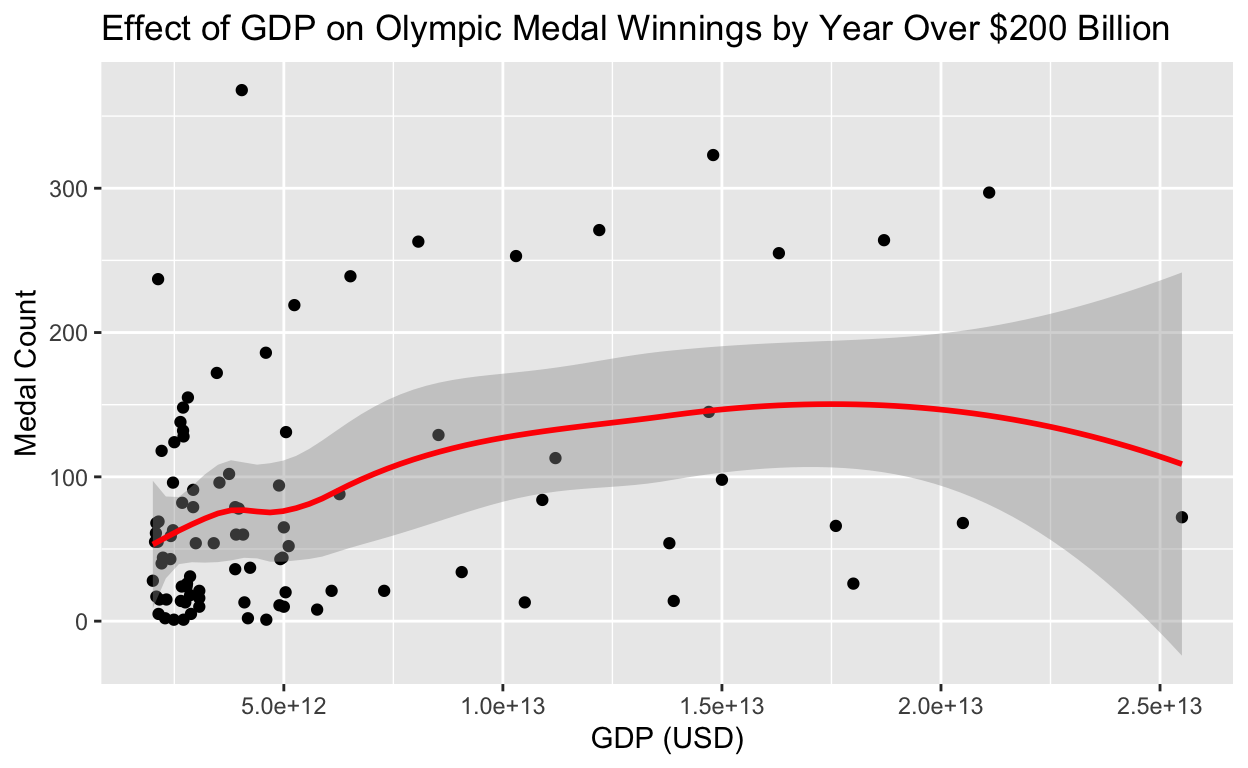
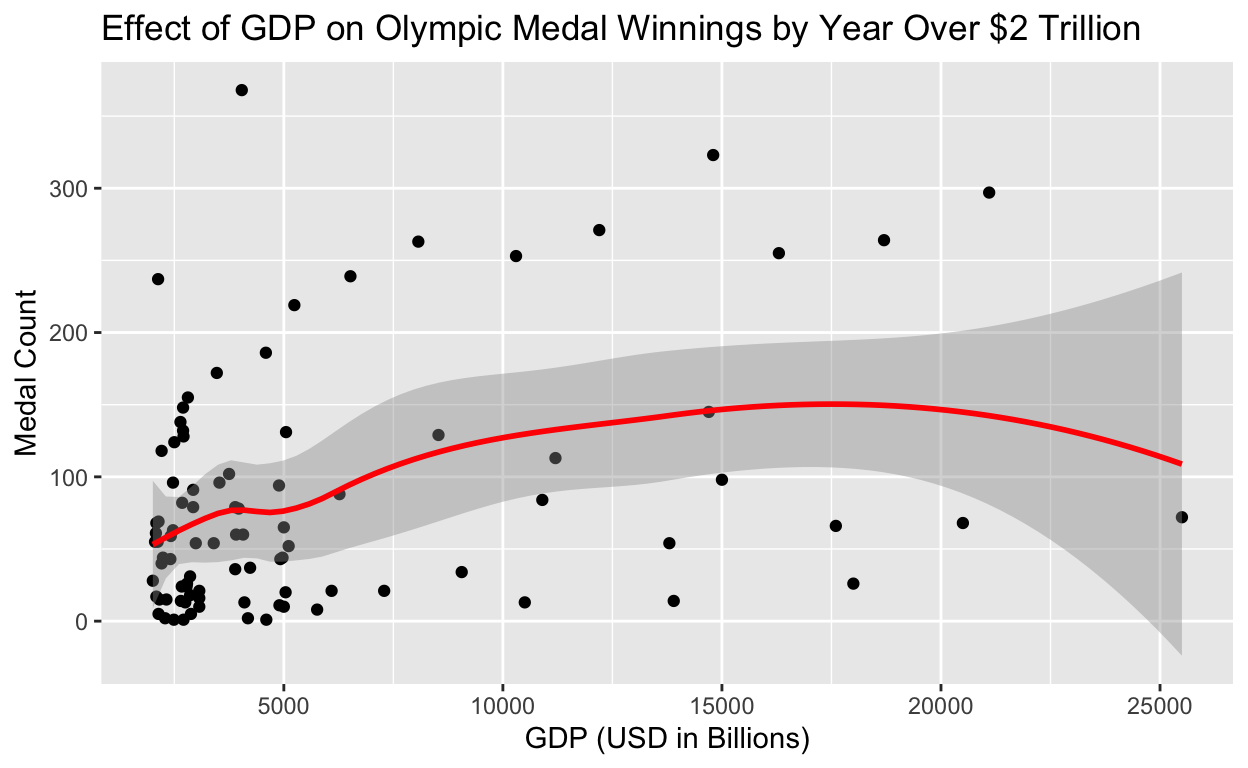
F1, F2, F2.5

diff --git a/index.html b/index.html
@@ -115,7 +115,7 @@ code span.wa { color: #5e5e5e; font-style: italic; } /* Warning */
   <!--/radix_placeholder_rmarkdown_metadata-->
   
   <script type="text/json" id="radix-resource-manifest">
-  {"type":"character","attributes":{},"value":["GDP.csv","index_files/anchor-4.2.2/anchor.min.js","index_files/bowser-1.9.3/bowser.min.js","index_files/distill-2.2.21/template.v2.js","index_files/figure-html5/unnamed-chunk-10-1.png","index_files/figure-html5/unnamed-chunk-11-1.png","index_files/figure-html5/unnamed-chunk-5-1.png","index_files/figure-html5/unnamed-chunk-9-1.png","index_files/header-attrs-2.17/header-attrs.js","index_files/header-attrs-2.28/header-attrs.js","index_files/header-attrs-2.29/header-attrs.js","index_files/jquery-3.6.0/jquery-3.6.0.js","index_files/jquery-3.6.0/jquery-3.6.0.min.js","index_files/jquery-3.6.0/jquery-3.6.0.min.map","index_files/popper-2.6.0/popper.min.js","index_files/tippy-6.2.7/tippy-bundle.umd.min.js","index_files/tippy-6.2.7/tippy-light-border.css","index_files/tippy-6.2.7/tippy.css","index_files/tippy-6.2.7/tippy.umd.min.js","index_files/webcomponents-2.0.0/webcomponents.js","Olympic_Athlete_Event_Results.csv","olympic_medal_database.csv"]}
+  {"type":"character","attributes":{},"value":["GDP.csv","index_files/anchor-4.2.2/anchor.min.js","index_files/bowser-1.9.3/bowser.min.js","index_files/distill-2.2.21/template.v2.js","index_files/figure-html5/unnamed-chunk-10-1.png","index_files/figure-html5/unnamed-chunk-11-1.png","index_files/figure-html5/unnamed-chunk-5-1.png","index_files/figure-html5/unnamed-chunk-8-1.png","index_files/figure-html5/unnamed-chunk-9-1.png","index_files/header-attrs-2.17/header-attrs.js","index_files/header-attrs-2.28/header-attrs.js","index_files/header-attrs-2.29/header-attrs.js","index_files/jquery-3.6.0/jquery-3.6.0.js","index_files/jquery-3.6.0/jquery-3.6.0.min.js","index_files/jquery-3.6.0/jquery-3.6.0.min.map","index_files/popper-2.6.0/popper.min.js","index_files/tippy-6.2.7/tippy-bundle.umd.min.js","index_files/tippy-6.2.7/tippy-light-border.css","index_files/tippy-6.2.7/tippy.css","index_files/tippy-6.2.7/tippy.umd.min.js","index_files/webcomponents-2.0.0/webcomponents.js","Olympic_Athlete_Event_Results.csv","olympic_medal_database.csv"]}
   </script>
   <!--radix_placeholder_navigation_in_header-->
   <!--/radix_placeholder_navigation_in_header-->
@@ -1543,11 +1543,9 @@ code span.wa { color: #5e5e5e; font-style: italic; } /* Warning */
 </div>
 
 <div class="d-article">
-<h2 id="milestone-1">Milestone 1</h2>
-<p>I am interested in exploring data related to the olympics (because that’s topical right now) or something football/basketball related</p>
-<h2 id="milestone-2">Milestone 2</h2>
-<p>My research question is the following: How do the gdp of a country impact the number of olympic medals won by a country throughout the history of the modern Summer and Winter Olympics (1896-2022)? I hypothesize that countries with higher GDPs have a higher likelihood of winning medals. I believe this because countries with stronger economies are able to better train their athletes and have more sports competition, leading to more medals being won. I will use the already created dataset of medals won to gather the list for every olympic year (it is measured by count of each type of medal). A positive correlation between GDP with medals won would indicate support for my hypothesis as the GDP should increase as medals are won. A relationship opposite or showing no correlation to those stated above would disprove my hypothesis as it would mean that GDP either has an opposite effect or no effect on medals won.</p>
-<h2 id="milestone-3">Milestone 3</h2>
+<h2 id="introduction">Introduction</h2>
+<p>My research question is the following: How does the GDP of a country impact the number of olympic medals won by a country throughout the history of the modern Summer and Winter Olympics (1960-2022)? I hypothesize that countries with higher GDPs have a higher likelihood of winning medals. I believe this because countries with stronger economies are able to better train their athletes and have more sports competition, leading to more medals being won. I will use the already created dataset of medals won to gather the list for every olympic year (it is measured by count of each type of medal). A positive correlation between GDP with medals won would indicate support for my hypothesis as the GDP should increase as medals are won. A relationship opposite or showing no correlation to those stated above would disprove my hypothesis as it would mean that GDP either has an opposite effect or no effect on medals won. This is important research as it would explain olympic medal winning trends that do not explicitly have to do with athletic ability but more about the country’s infrastructure and the opportunities of the athletes outside of pure competition.</p>
+<h2 id="data-wrangling">Data Wrangling</h2>
 <p>First I will load the unclean olympic results dataset.</p>
 <div class="layout-chunk" data-layout="l-body">
 <div class="sourceCode">
@@ -1567,12 +1565,9 @@ code span.wa { color: #5e5e5e; font-style: italic; } /* Warning */
 <div class="sourceCode">
 <pre class="sourceCode r"><code class="sourceCode r"><span><span class='va'>extra_count</span> <span class='op'>&lt;-</span> <span class='va'>medals</span> <span class='op'>|&gt;</span></span>
 <span>  <span class='fu'><a href='https://dplyr.tidyverse.org/reference/group_by.html'>group_by</a></span><span class='op'>(</span><span class='va'>result_id</span>, <span class='va'>medal</span><span class='op'>)</span> <span class='op'>|&gt;</span></span>
-<span>  <span class='fu'><a href='https://dplyr.tidyverse.org/reference/summarise.html'>summarize</a></span><span class='op'>(</span>extra_count <span class='op'>=</span> <span class='fu'><a href='https://dplyr.tidyverse.org/reference/context.html'>n</a></span><span class='op'>(</span><span class='op'>)</span><span class='op'>)</span></span></code></pre>
-</div>
-</div>
-<div class="layout-chunk" data-layout="l-body">
-<div class="sourceCode">
-<pre class="sourceCode r"><code class="sourceCode r"><span><span class='va'>medals</span> <span class='op'>&lt;-</span> <span class='va'>medals</span> <span class='op'>|&gt;</span></span>
+<span>  <span class='fu'><a href='https://dplyr.tidyverse.org/reference/summarise.html'>summarize</a></span><span class='op'>(</span>extra_count <span class='op'>=</span> <span class='fu'><a href='https://dplyr.tidyverse.org/reference/context.html'>n</a></span><span class='op'>(</span><span class='op'>)</span><span class='op'>)</span></span>
+<span></span>
+<span><span class='va'>medals</span> <span class='op'>&lt;-</span> <span class='va'>medals</span> <span class='op'>|&gt;</span></span>
 <span>  <span class='fu'><a href='https://dplyr.tidyverse.org/reference/mutate-joins.html'>left_join</a></span><span class='op'>(</span><span class='va'>extra_count</span><span class='op'>)</span></span>
 <span></span>
 <span><span class='va'>extra_indiv_rows</span> <span class='op'>&lt;-</span> <span class='va'>medals</span> <span class='op'>|&gt;</span></span>
@@ -1593,32 +1588,17 @@ code span.wa { color: #5e5e5e; font-style: italic; } /* Warning */
 <span>   <span class='fu'><a href='https://dplyr.tidyverse.org/reference/arrange.html'>arrange</a></span><span class='op'>(</span><span class='va'>edition_id</span>, <span class='va'>sport</span>, <span class='va'>country_noc</span><span class='op'>)</span></span></code></pre>
 </div>
 </div>
-<p>For this milestone, I will show the top 10 medal winning countries medals sorted by Summer and Winter Olympics. The top ten countries are the United States (USA), the Soviet Union (URS), Great Britain (GBR), France (FRA), China (CHN), Germany (GER), Italy (ITA), Australia (AUS), Japan (JPN), Hungary (HUN). First I will add an indicator to separate Summer and Winter Games. Then I will filter to only the top 10 countries and create a visualization of their success in the Summer and Winter games.</p>
+<p>Now I will add an indicator to separate Summer and Winter Games.</p>
 <div class="layout-chunk" data-layout="l-body">
 <div class="sourceCode">
 <pre class="sourceCode r"><code class="sourceCode r"><span><span class='va'>medals_clean</span> <span class='op'>&lt;-</span> <span class='va'>medals_clean</span> <span class='op'>|&gt;</span></span>
 <span>  <span class='fu'><a href='https://dplyr.tidyverse.org/reference/mutate.html'>mutate</a></span><span class='op'>(</span>Season <span class='op'>=</span> <span class='fu'><a href='https://dplyr.tidyverse.org/reference/case_when.html'>case_when</a></span><span class='op'>(</span></span>
 <span>    <span class='va'>edition_id</span> <span class='op'>&lt;</span> <span class='fl'>27</span> <span class='op'>|</span> <span class='va'>edition_id</span> <span class='op'>==</span> <span class='fl'>53</span> <span class='op'>|</span> <span class='va'>edition_id</span> <span class='op'>==</span> <span class='fl'>54</span> <span class='op'>|</span> <span class='va'>edition_id</span> <span class='op'>==</span> <span class='fl'>59</span> <span class='op'>|</span> <span class='va'>edition_id</span> <span class='op'>==</span> <span class='fl'>61</span> <span class='op'>~</span> <span class='st'>"Summer"</span>,</span>
 <span>    <span class='va'>edition_id</span> <span class='op'>&gt;=</span> <span class='fl'>27</span> <span class='op'>&amp;</span> <span class='va'>edition_id</span> <span class='op'>&lt;</span> <span class='fl'>51</span> <span class='op'>|</span> <span class='va'>edition_id</span> <span class='op'>==</span> <span class='fl'>57</span> <span class='op'>|</span> <span class='va'>edition_id</span> <span class='op'>==</span> <span class='fl'>58</span> <span class='op'>|</span> <span class='va'>edition_id</span> <span class='op'>==</span> <span class='fl'>60</span> <span class='op'>|</span> <span class='va'>edition_id</span> <span class='op'>==</span> <span class='fl'>62</span> <span class='op'>~</span> <span class='st'>"Winter"</span></span>
-<span>  <span class='op'>)</span><span class='op'>)</span> </span>
-<span></span>
-<span><span class='va'>medals_clean</span> <span class='op'>|&gt;</span></span>
-<span>  <span class='fu'><a href='https://dplyr.tidyverse.org/reference/filter.html'>filter</a></span><span class='op'>(</span><span class='va'>country_noc</span> <span class='op'>==</span> <span class='st'>"USA"</span> <span class='op'>|</span> <span class='va'>country_noc</span> <span class='op'>==</span> <span class='st'>"URS"</span> <span class='op'>|</span> <span class='va'>country_noc</span> <span class='op'>==</span> <span class='st'>"GBR"</span><span class='op'>|</span> <span class='va'>country_noc</span> <span class='op'>==</span> <span class='st'>"FRA"</span> <span class='op'>|</span> <span class='va'>country_noc</span> <span class='op'>==</span> <span class='st'>"CHN"</span> </span>
-<span>         <span class='op'>|</span> <span class='va'>country_noc</span> <span class='op'>==</span> <span class='st'>"GER"</span> <span class='op'>|</span> <span class='va'>country_noc</span> <span class='op'>==</span> <span class='st'>"ITA"</span> <span class='op'>|</span> <span class='va'>country_noc</span> <span class='op'>==</span> <span class='st'>"AUS"</span> <span class='op'>|</span> <span class='va'>country_noc</span> <span class='op'>==</span> <span class='st'>"JPN"</span> <span class='op'>|</span> <span class='va'>country_noc</span> <span class='op'>==</span> <span class='st'>"HUN"</span><span class='op'>)</span> <span class='op'>|&gt;</span></span>
-<span>  <span class='fu'><a href='https://dplyr.tidyverse.org/reference/group_by.html'>group_by</a></span><span class='op'>(</span><span class='va'>country_noc</span>, <span class='va'>Season</span><span class='op'>)</span> <span class='op'>|&gt;</span></span>
-<span>  <span class='fu'><a href='https://dplyr.tidyverse.org/reference/summarise.html'>summarize</a></span><span class='op'>(</span>medal_count <span class='op'>=</span> <span class='fu'><a href='https://dplyr.tidyverse.org/reference/context.html'>n</a></span><span class='op'>(</span><span class='op'>)</span><span class='op'>)</span> <span class='op'>|&gt;</span></span>
-<span>   <span class='fu'><a href='https://ggplot2.tidyverse.org/reference/ggplot.html'>ggplot</a></span><span class='op'>(</span>mapping <span class='op'>=</span> <span class='fu'><a href='https://ggplot2.tidyverse.org/reference/aes.html'>aes</a></span><span class='op'>(</span>x <span class='op'>=</span> <span class='va'>country_noc</span>, y <span class='op'>=</span> <span class='va'>medal_count</span><span class='op'>)</span><span class='op'>)</span> <span class='op'>+</span></span>
-<span>  <span class='fu'><a href='https://ggplot2.tidyverse.org/reference/geom_bar.html'>geom_col</a></span><span class='op'>(</span><span class='fu'><a href='https://ggplot2.tidyverse.org/reference/aes.html'>aes</a></span><span class='op'>(</span>fill <span class='op'>=</span> <span class='va'>Season</span><span class='op'>)</span>, position <span class='op'>=</span> <span class='st'>"dodge"</span><span class='op'>)</span> <span class='op'>+</span></span>
-<span>  <span class='fu'><a href='https://ggplot2.tidyverse.org/reference/scale_manual.html'>scale_fill_manual</a></span><span class='op'>(</span>values <span class='op'>=</span> <span class='fu'><a href='https://rdrr.io/r/base/c.html'>c</a></span><span class='op'>(</span>Summer <span class='op'>=</span> <span class='st'>"gold"</span>,</span>
-<span>                               Winter <span class='op'>=</span> <span class='st'>"steelblue1"</span><span class='op'>)</span><span class='op'>)</span> <span class='op'>+</span></span>
-<span>  <span class='fu'><a href='https://ggplot2.tidyverse.org/reference/labs.html'>labs</a></span><span class='op'>(</span>x <span class='op'>=</span> <span class='st'>"Country"</span>,</span>
-<span>       y <span class='op'>=</span> <span class='st'>"Medal Count"</span>,</span>
-<span>       title <span class='op'>=</span> <span class='st'>"Medals by Olympic Season for the Top 10 Medal Winning Countries"</span><span class='op'>)</span></span></code></pre>
+<span>  <span class='op'>)</span><span class='op'>)</span> </span></code></pre>
 </div>
-<p><img src="index_files/figure-html5/unnamed-chunk-5-1.png" width="624" /></p>
 </div>
-<h2 id="milestone-4">Milestone 4</h2>
-First I will load the gdp by country dataset. This data set is only from 1960-2022 so we will only be looking at those olympics.
+<p>Now I will load the gdp by country dataset. This data set is only from 1960-2022 so we will only be looking at those olympics.</p>
 <div class="layout-chunk" data-layout="l-body">
 <div class="sourceCode">
 <pre class="sourceCode r"><code class="sourceCode r"><span><span class='va'>gdp</span> <span class='op'>&lt;-</span> <span class='fu'><a href='https://readr.tidyverse.org/reference/read_delim.html'>read_csv</a></span><span class='op'>(</span><span class='st'>"GDP.csv"</span><span class='op'>)</span></span></code></pre>
@@ -1644,57 +1624,195 @@ First I will load the gdp by country dataset. This data set is only from 1960-20
 <span><span class='va'>medals_gdp</span> <span class='op'>&lt;-</span> <span class='fu'><a href='https://dplyr.tidyverse.org/reference/mutate-joins.html'>inner_join</a></span><span class='op'>(</span><span class='va'>medals_count</span>, <span class='va'>gdp_pivot</span><span class='op'>)</span></span></code></pre>
 </div>
 </div>
-Now I will graph the medals won by GDP.
-<div class="layout-chunk" data-layout="l-body">
-<div class="sourceCode">
-<pre class="sourceCode r"><code class="sourceCode r"><span><span class='va'>medals_gdp</span> <span class='op'>|&gt;</span></span>
-<span>  <span class='fu'><a href='https://ggplot2.tidyverse.org/reference/ggplot.html'>ggplot</a></span><span class='op'>(</span>mapping <span class='op'>=</span> <span class='fu'><a href='https://ggplot2.tidyverse.org/reference/aes.html'>aes</a></span><span class='op'>(</span>x <span class='op'>=</span> <span class='va'>gdp</span>, y <span class='op'>=</span> <span class='va'>n</span><span class='op'>)</span><span class='op'>)</span> <span class='op'>+</span></span>
-<span>  <span class='fu'><a href='https://ggplot2.tidyverse.org/reference/geom_point.html'>geom_point</a></span><span class='op'>(</span><span class='op'>)</span> <span class='op'>+</span></span>
-<span>  <span class='fu'><a href='https://ggplot2.tidyverse.org/reference/geom_smooth.html'>geom_smooth</a></span><span class='op'>(</span><span class='op'>)</span> <span class='op'>+</span></span>
-<span><span class='fu'><a href='https://ggplot2.tidyverse.org/reference/labs.html'>labs</a></span><span class='op'>(</span>x <span class='op'>=</span> <span class='st'>"GDP"</span>,</span>
-<span>     y <span class='op'>=</span> <span class='st'>"Medal Count"</span>,</span>
-<span>     title <span class='op'>=</span> <span class='st'>"Effect of GDP on Olympic Medal Winnings by Year"</span><span class='op'>)</span></span></code></pre>
-</div>
-<p><img src="index_files/figure-html5/unnamed-chunk-9-1.png" width="624" /></p>
-</div>
-<p>Each point on this graph is one country’s GDP in an olympic year. From this graph, we can see as GDP increases from 0 to 1 trillion (1e+13), the medals won by country increases. However, after a country has a GDP of 1 trillion, the line flattens indicating that the effect of GDP increase does not perpetually increase medal winning. There are, however, many confounding variables. One important one is that as a country’s GDP increases, they usually send more athletes to the olympics, leading to more chances to win a medal, and more medals in result. Additionally, this graph has a few outlier dots which are mostly the United States and China (the two largest economies). However, by removing these two countries, the line of best fit does not change very much, indicating a minimal outlier effect from those two countries.</p>
-<h1 id="final-project">Final Project</h1>
-<h2 id="introduction">Introduction</h2>
-<p>My research question is the following: How does the GDP of a country impact the number of olympic medals won by a country throughout the history of the modern Summer and Winter Olympics (1960-2022)? I hypothesize that countries with higher GDPs have a higher likelihood of winning medals. I believe this because countries with stronger economies are able to better train their athletes and have more sports competition, leading to more medals being won. I will use the already created dataset of medals won to gather the list for every olympic year (it is measured by count of each type of medal). A positive correlation between GDP with medals won would indicate support for my hypothesis as the GDP should increase as medals are won. A relationship opposite or showing no correlation to those stated above would disprove my hypothesis as it would mean that GDP either has an opposite effect or no effect on medals won. This is important research as it would explain olympic medal winning trends that do not explicitly have to do with athletic ability but more about the country’s infrastructure and the opportunities of the athletes outside of pure competition.</p>
 <h2 id="data-section">Data Section</h2>
 <div class="layout-chunk" data-layout="l-body">
 <div class="sourceCode">
 <pre class="sourceCode r"><code class="sourceCode r"><span><span class='va'>u_200_gdp</span> <span class='op'>&lt;-</span> <span class='va'>medals_gdp</span> <span class='op'>|&gt;</span></span>
 <span>  <span class='fu'><a href='https://dplyr.tidyverse.org/reference/filter.html'>filter</a></span><span class='op'>(</span><span class='va'>gdp</span> <span class='op'>&lt;=</span> <span class='fl'>2e+12</span><span class='op'>)</span> <span class='op'>|&gt;</span></span>
-<span>  <span class='fu'><a href='https://ggplot2.tidyverse.org/reference/ggplot.html'>ggplot</a></span><span class='op'>(</span>mapping <span class='op'>=</span> <span class='fu'><a href='https://ggplot2.tidyverse.org/reference/aes.html'>aes</a></span><span class='op'>(</span>x <span class='op'>=</span> <span class='va'>gdp</span>, y <span class='op'>=</span> <span class='va'>n</span><span class='op'>)</span><span class='op'>)</span> <span class='op'>+</span></span>
+<span>  <span class='fu'><a href='https://dplyr.tidyverse.org/reference/mutate.html'>mutate</a></span><span class='op'>(</span>gdp_simp <span class='op'>=</span> <span class='va'>gdp</span><span class='op'>/</span><span class='fl'>1000000000</span><span class='op'>)</span></span>
+<span></span>
+<span><span class='va'>u_plot</span> <span class='op'>&lt;-</span> <span class='va'>u_200_gdp</span> <span class='op'>|&gt;</span></span>
+<span>  <span class='fu'><a href='https://ggplot2.tidyverse.org/reference/ggplot.html'>ggplot</a></span><span class='op'>(</span>mapping <span class='op'>=</span> <span class='fu'><a href='https://ggplot2.tidyverse.org/reference/aes.html'>aes</a></span><span class='op'>(</span>x <span class='op'>=</span> <span class='va'>gdp_simp</span>, y <span class='op'>=</span> <span class='va'>n</span><span class='op'>)</span><span class='op'>)</span> <span class='op'>+</span></span>
 <span>  <span class='fu'><a href='https://ggplot2.tidyverse.org/reference/geom_point.html'>geom_point</a></span><span class='op'>(</span><span class='op'>)</span> <span class='op'>+</span></span>
 <span>  <span class='fu'><a href='https://ggplot2.tidyverse.org/reference/geom_smooth.html'>geom_smooth</a></span><span class='op'>(</span><span class='op'>)</span> <span class='op'>+</span></span>
-<span><span class='fu'><a href='https://ggplot2.tidyverse.org/reference/labs.html'>labs</a></span><span class='op'>(</span>x <span class='op'>=</span> <span class='st'>"GDP (USD)"</span>,</span>
+<span><span class='fu'><a href='https://ggplot2.tidyverse.org/reference/labs.html'>labs</a></span><span class='op'>(</span>x <span class='op'>=</span> <span class='st'>"GDP (USD in Billions)"</span>,</span>
 <span>     y <span class='op'>=</span> <span class='st'>"Medal Count"</span>,</span>
-<span>     title <span class='op'>=</span> <span class='st'>"Effect of GDP on Olympic Medal Winnings by Year Under $200 Billion"</span><span class='op'>)</span></span>
+<span>     title <span class='op'>=</span> <span class='st'>"Effect of GDP on Olympic Medal Winnings by Year Under $2 Trillion"</span><span class='op'>)</span></span>
 <span></span>
-<span><span class='va'>u_200_gdp</span></span></code></pre>
+<span><span class='va'>u_plot</span></span></code></pre>
 </div>
-<p><img src="index_files/figure-html5/unnamed-chunk-10-1.png" width="624" /></p>
+<p><img src="index_files/figure-html5/unnamed-chunk-8-1.png" width="624" /></p>
 </div>
-<p>This graph shows the amount of medal won by a country in each olympics (each point is one country at an olympics (example is Afghanistan 1960 is one point, Afghanistan 1964 is another point)) for countries under $200 billion in GDP. We can see a mostly positive association between medal winning and GDP increase up to a threshold of $200 billion. The blue line shows a line of best fit for this graph which has a slope of approximately $30 billion in GDP per medal won. The gray outline is the standard error.</p>
 <div class="layout-chunk" data-layout="l-body">
 <div class="sourceCode">
 <pre class="sourceCode r"><code class="sourceCode r"><span><span class='va'>o_200_gdp</span> <span class='op'>&lt;-</span> <span class='va'>medals_gdp</span> <span class='op'>|&gt;</span></span>
 <span>  <span class='fu'><a href='https://dplyr.tidyverse.org/reference/filter.html'>filter</a></span><span class='op'>(</span><span class='va'>gdp</span> <span class='op'>&gt;=</span> <span class='fl'>2e+12</span><span class='op'>)</span> <span class='op'>|&gt;</span></span>
-<span>  <span class='fu'><a href='https://ggplot2.tidyverse.org/reference/ggplot.html'>ggplot</a></span><span class='op'>(</span>mapping <span class='op'>=</span> <span class='fu'><a href='https://ggplot2.tidyverse.org/reference/aes.html'>aes</a></span><span class='op'>(</span>x <span class='op'>=</span> <span class='va'>gdp</span>, y <span class='op'>=</span> <span class='va'>n</span><span class='op'>)</span><span class='op'>)</span> <span class='op'>+</span></span>
+<span>  <span class='fu'><a href='https://dplyr.tidyverse.org/reference/mutate.html'>mutate</a></span><span class='op'>(</span>gdp_simp <span class='op'>=</span> <span class='va'>gdp</span><span class='op'>/</span><span class='fl'>1000000000</span><span class='op'>)</span></span>
+<span></span>
+<span><span class='va'>o_plot</span> <span class='op'>&lt;-</span> <span class='va'>o_200_gdp</span> <span class='op'>|&gt;</span></span>
+<span>  <span class='fu'><a href='https://ggplot2.tidyverse.org/reference/ggplot.html'>ggplot</a></span><span class='op'>(</span>mapping <span class='op'>=</span> <span class='fu'><a href='https://ggplot2.tidyverse.org/reference/aes.html'>aes</a></span><span class='op'>(</span>x <span class='op'>=</span> <span class='va'>gdp_simp</span>, y <span class='op'>=</span> <span class='va'>n</span><span class='op'>)</span><span class='op'>)</span> <span class='op'>+</span></span>
 <span>  <span class='fu'><a href='https://ggplot2.tidyverse.org/reference/geom_point.html'>geom_point</a></span><span class='op'>(</span><span class='op'>)</span> <span class='op'>+</span></span>
 <span>  <span class='fu'><a href='https://ggplot2.tidyverse.org/reference/geom_smooth.html'>geom_smooth</a></span><span class='op'>(</span>color <span class='op'>=</span> <span class='st'>"red"</span><span class='op'>)</span> <span class='op'>+</span></span>
-<span><span class='fu'><a href='https://ggplot2.tidyverse.org/reference/labs.html'>labs</a></span><span class='op'>(</span>x <span class='op'>=</span> <span class='st'>"GDP (USD)"</span>,</span>
+<span><span class='fu'><a href='https://ggplot2.tidyverse.org/reference/labs.html'>labs</a></span><span class='op'>(</span>x <span class='op'>=</span> <span class='st'>"GDP (USD in Billions)"</span>,</span>
 <span>     y <span class='op'>=</span> <span class='st'>"Medal Count"</span>,</span>
-<span>     title <span class='op'>=</span> <span class='st'>"Effect of GDP on Olympic Medal Winnings by Year Over $200 Billion"</span><span class='op'>)</span></span>
+<span>     title <span class='op'>=</span> <span class='st'>"Effect of GDP on Olympic Medal Winnings by Year Over $2 Trillion"</span><span class='op'>)</span></span>
 <span></span>
-<span><span class='va'>o_200_gdp</span></span></code></pre>
+<span><span class='va'>o_plot</span></span></code></pre>
 </div>
-<p><img src="index_files/figure-html5/unnamed-chunk-11-1.png" width="624" /></p>
+<p><img src="index_files/figure-html5/unnamed-chunk-9-1.png" width="624" /></p>
 </div>
-<p>This graph shows the amount of medal won by a country in each olympics (each point is one country at an olympics (example is Great Britain 2000 is one point, Great Britain 2004 is another point)) for countries over $200 billion in GDP. We can see a mostly positive association between medal winning and GDP increase above a threshold of $200 billion. The red line shows a line of best fit which starts with a positive slope and transitions to a flat area after a GDP of $1 trillion. The gray outline is the standard error.</p>
-<p>The data sources for this data is a list of all olympic athletes filtered to have only the medalists as shown in the data wrangling section above. Additionally, I am using GDP data from the World Bank for each countries GDP which is filtered to only the olympic years. This is a cross-sectional research study that uses all available olympic data besides 2024 athletes because no datasets had accurate representations of their athletes. The GDP data set is not complete so only the values that were present are used to fill out the two graphs.</p>
+<p>The data source for the olympic data (independent variable) is a list of all olympic athletes filtered to have only the medalists as shown in the data wrangling section above. This data is a pure count variable of every olympian so it acts as a census. This data was checked for accuracy against true medal counts from the olympic website. While there is a small source of data error due to large amounts of data wrangling, I performed enough verification checks to add fidelity to the data.</p>
+<p>Additionally, I am using GDP data from the World Bank for each countries GDP which is filtered to only the olympic years. This data is collected as accurately as possible by the World Bank to track national earnings. This is almost a census as every country’s data is collected. However, there are some missing data points in the dataset. Overall, this data has high levels of accuracy due to its official source nature.</p>
+<p>This is a cross-sectional research study that uses all available olympic data besides 2024 athletes because no datasets had accurate representations of their athletes. The GDP data set is not complete so only the values that were present are used to fill out the two graphs and corresponding regression plots. Also, some countries with olympic teams do not have separate World Bank entries (for example, Puerto Rico and New Caledonia) so they are not represented in the graphs and regressions as well.</p>
+<h2 id="results">Results</h2>
+<div class="layout-chunk" data-layout="l-body">
+<div class="sourceCode">
+<pre class="sourceCode r"><code class="sourceCode r"><span><span class='kw'><a href='https://rdrr.io/r/base/library.html'>library</a></span><span class='op'>(</span><span class='va'><a href='https://modelsummary.com'>modelsummary</a></span><span class='op'>)</span></span>
+<span></span>
+<span> <span class='fu'><a href='https://modelsummary.com/man/config_modelsummary.html'>config_modelsummary</a></span><span class='op'>(</span>startup_message <span class='op'>=</span> <span class='cn'>FALSE</span><span class='op'>)</span></span>
+<span></span>
+<span><span class='va'>u_200_reg</span> <span class='op'>&lt;-</span> <span class='fu'><a href='https://rdrr.io/r/stats/lm.html'>lm</a></span><span class='op'>(</span><span class='va'>n</span> <span class='op'>~</span> <span class='va'>gdp_simp</span>, data <span class='op'>=</span> <span class='va'>u_200_gdp</span><span class='op'>)</span></span>
+<span></span>
+<span><span class='va'>u_plot</span></span></code></pre>
+</div>
+<img src="index_files/figure-html5/unnamed-chunk-10-1.png" width="624" />
+<div class="sourceCode">
+<pre class="sourceCode r"><code class="sourceCode r"><span><span class='fu'><a href='https://modelsummary.com/man/modelsummary.html'>modelsummary</a></span><span class='op'>(</span><span class='va'>u_200_reg</span>, output <span class='op'>=</span> <span class='st'>"markdown"</span><span class='op'>)</span></span></code></pre>
+</div>
+<table style="width:36%;">
+<colgroup>
+<col style="width: 19%" />
+<col style="width: 16%" />
+</colgroup>
+<thead>
+<tr class="header">
+<th></th>
+<th><ol type="1">
+<li></li>
+</ol></th>
+</tr>
+</thead>
+<tbody>
+<tr class="odd">
+<td>(Intercept)</td>
+<td>9.568</td>
+</tr>
+<tr class="even">
+<td></td>
+<td>(0.908)</td>
+</tr>
+<tr class="odd">
+<td>gdp_simp</td>
+<td>0.033</td>
+</tr>
+<tr class="even">
+<td></td>
+<td>(0.002)</td>
+</tr>
+<tr class="odd">
+<td>Num.Obs.</td>
+<td>1003</td>
+</tr>
+<tr class="even">
+<td>R2</td>
+<td>0.230</td>
+</tr>
+<tr class="odd">
+<td>R2 Adj.</td>
+<td>0.229</td>
+</tr>
+<tr class="even">
+<td>AIC</td>
+<td>9225.6</td>
+</tr>
+<tr class="odd">
+<td>BIC</td>
+<td>9240.3</td>
+</tr>
+<tr class="even">
+<td>Log.Lik.</td>
+<td>-4609.799</td>
+</tr>
+<tr class="odd">
+<td>RMSE</td>
+<td>23.98</td>
+</tr>
+</tbody>
+</table>
+</div>
+<p>This graph shows the amount of medal won by a country in each olympics (each point is one country at an olympics (example is Afghanistan 1960 is one point, Afghanistan 1964 is another point)) for countries under $2 trillion in GDP. We can see a mostly positive association between medal winning and GDP increase up to a threshold of $2 trillion. The blue line shows a line of best fit for this graph which has a gradual increase until the $2 trillion threshold. The gray outline is the standard error.</p>
+<div class="layout-chunk" data-layout="l-body">
+<div class="sourceCode">
+<pre class="sourceCode r"><code class="sourceCode r"><span><span class='va'>o_200_reg</span> <span class='op'>&lt;-</span> <span class='fu'><a href='https://rdrr.io/r/stats/lm.html'>lm</a></span><span class='op'>(</span><span class='va'>n</span> <span class='op'>~</span> <span class='va'>gdp_simp</span>, data <span class='op'>=</span> <span class='va'>o_200_gdp</span><span class='op'>)</span></span>
+<span></span>
+<span><span class='va'>o_plot</span></span></code></pre>
+</div>
+<img src="index_files/figure-html5/unnamed-chunk-11-1.png" width="624" />
+<div class="sourceCode">
+<pre class="sourceCode r"><code class="sourceCode r"><span><span class='fu'><a href='https://modelsummary.com/man/modelsummary.html'>modelsummary</a></span><span class='op'>(</span><span class='va'>o_200_reg</span>, output <span class='op'>=</span> <span class='st'>"markdown"</span><span class='op'>)</span></span></code></pre>
+</div>
+<table style="width:35%;">
+<colgroup>
+<col style="width: 19%" />
+<col style="width: 15%" />
+</colgroup>
+<thead>
+<tr class="header">
+<th></th>
+<th><ol type="1">
+<li></li>
+</ol></th>
+</tr>
+</thead>
+<tbody>
+<tr class="odd">
+<td>(Intercept)</td>
+<td>50.816</td>
+</tr>
+<tr class="even">
+<td></td>
+<td>(12.372)</td>
+</tr>
+<tr class="odd">
+<td>gdp_simp</td>
+<td>0.006</td>
+</tr>
+<tr class="even">
+<td></td>
+<td>(0.002)</td>
+</tr>
+<tr class="odd">
+<td>Num.Obs.</td>
+<td>92</td>
+</tr>
+<tr class="even">
+<td>R2</td>
+<td>0.121</td>
+</tr>
+<tr class="odd">
+<td>R2 Adj.</td>
+<td>0.111</td>
+</tr>
+<tr class="even">
+<td>AIC</td>
+<td>1067.9</td>
+</tr>
+<tr class="odd">
+<td>BIC</td>
+<td>1075.4</td>
+</tr>
+<tr class="even">
+<td>Log.Lik.</td>
+<td>-530.929</td>
+</tr>
+<tr class="odd">
+<td>RMSE</td>
+<td>77.64</td>
+</tr>
+</tbody>
+</table>
+</div>
+<p>This graph shows the amount of medal won by a country in each olympics (each point is one country at an olympics (example is Great Britain 2000 is one point, Great Britain 2004 is another point)) for countries over $2 trillion in GDP. We can see a mostly positive association between medal winning and GDP increase above a threshold of $2 trillion. The red line shows a line of best fit which starts with a positive slope and transitions to a flat area after a GDP of $10 trillion. The gray outline is the standard error.</p>
 <div class="sourceCode" id="cb1"><pre class="sourceCode r distill-force-highlighting-css"><code class="sourceCode r"></code></pre></div>
 <!--radix_placeholder_article_footer-->
 <!--/radix_placeholder_article_footer-->
